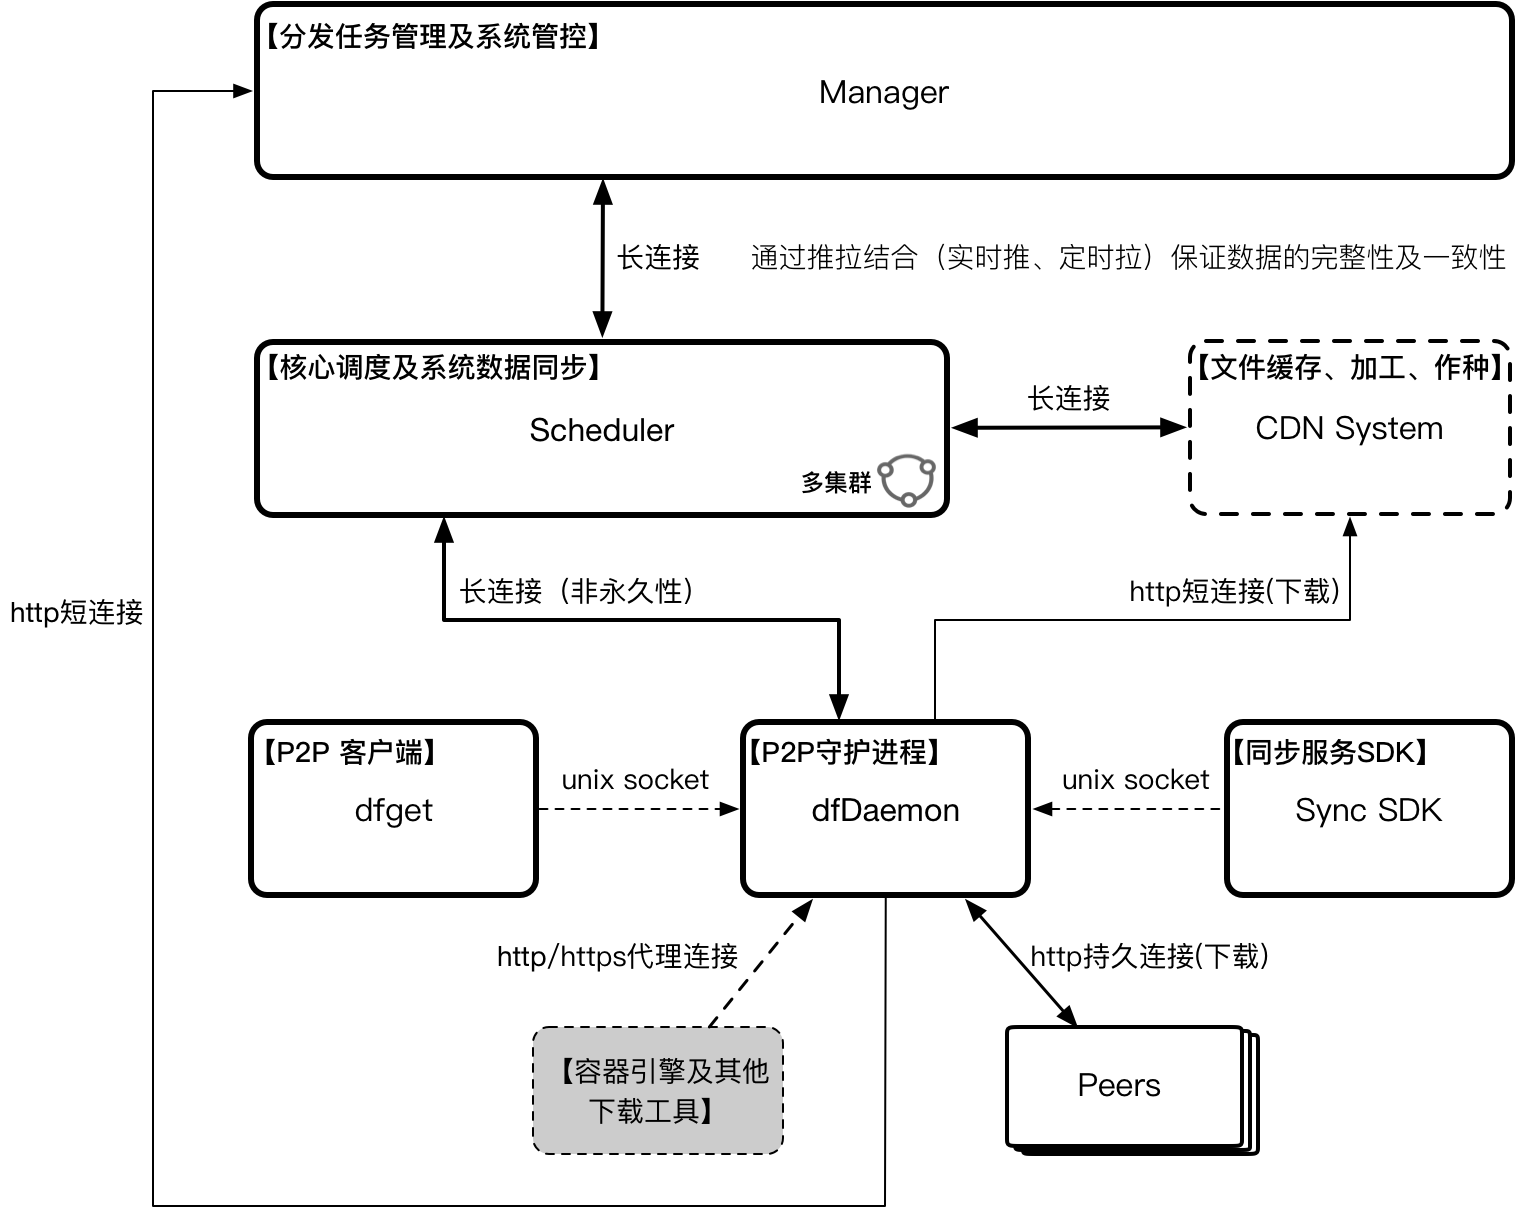
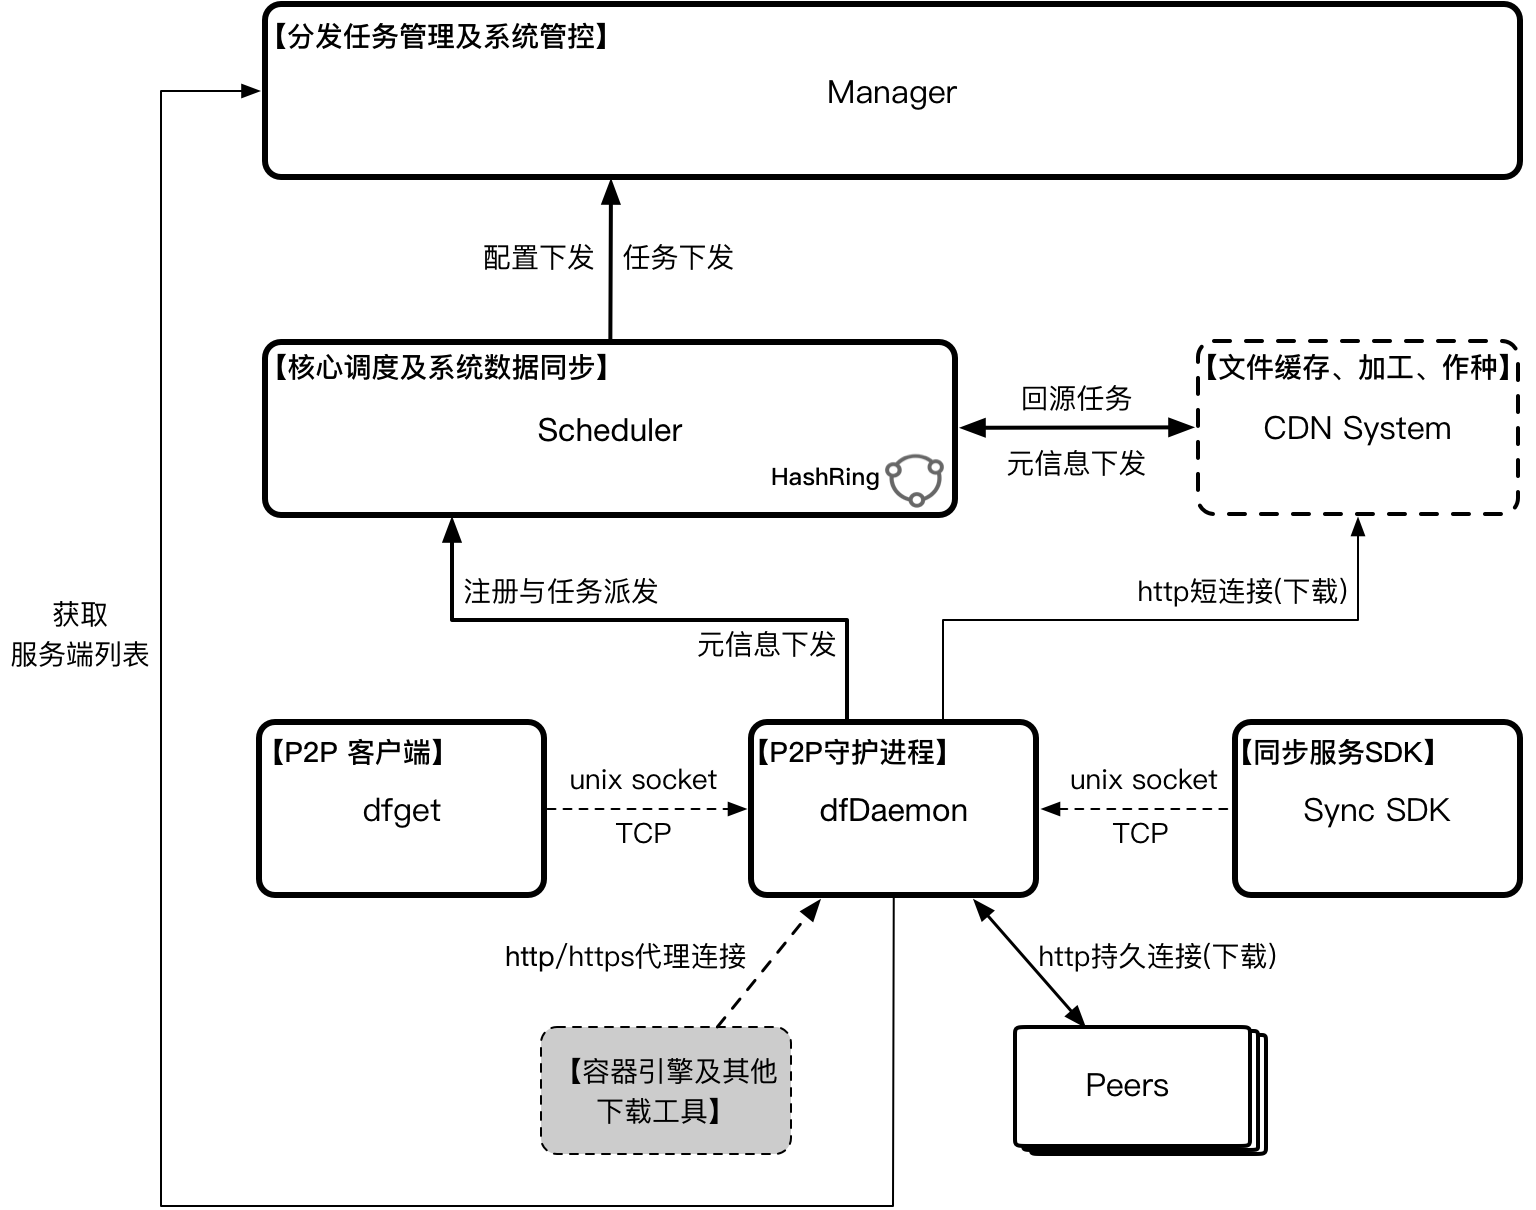
update readme

diff --git a/README.md b/README.md
@@ -1,27 +1,80 @@
 # Dragonfly2
-## 定位
-提供企业级（高效、稳定、安全、低成本、产品化）的文件分发与管理服务，收敛各类文件分发场景，并最终给用户形成一个心智：任何文件传输问题到蜻蜓为止！
-
-## 当前痛点
-1. 当前只能支持HTTP回源协议，针对其他类型的存储（比如HDFS、各云厂商的存储服务、Maven、YUM等等）缺乏支持，因此在非HTTP源的规模化场景下极易导致分发效率问题
-2. 现有架构很难满足日益增长的文件分发规模，稳定性及效率受到越来越多的挑战；同时扩展能力较差（比如不支持原生集成到第三方软件中），部署模式也不够灵活
-3. 缺乏足够的安全保障，包括协议安全、通信及数据传输安全、系统安全等方面
-4. 缺少产品化能力，无法提供完善的文件分发及管理解决方案，比如数据大盘、文件实时同步、客户端管理等等
-5. 内外版本不一致，维护成本高，很多新特性很难相互共享
-## 核心特性
-1. 通过统一适配层支持各种不同类型存储（HDFS、各云厂商的存储服务、Maven、YUM等等）的P2P文件分发能力
-2. 支持更多的分发模式：主动推送、实时同步、远程复制、自动预热、跨云传输等等
-3. 系统之间分离解耦，且支持按需部署，可轻可重，灵活满足不同场景的实际需要
-4. 全新设计P2P通信协议，效率及安全性更佳
-5. 支持加密传输、基于账号的传输鉴权与限流、多租户隔离机制
-6. 客户端与CDN子系统支持多种IO方式：多线程IO、普通读写、DMA等
-7. 服务端支持动态压缩、内存文件系统以及更高效的调度算法，提升分发效率
-8. 客户端通过C/S模式支持第三方软件原生集成蜻蜓的P2P能力
-9. 产品化能力：支持基本的远程文件管理（上传、查询、删除）、各种分发模式的任务管理、数据视图以及全局管控等等功能
-10. 内外一套，核心特性相互共享，非通用特性各自扩展
-
-## 架构大图
-### 产品架构
+## 产品定位
+提供企业级（高效、稳定、安全、低成本、产品化）的文件分发与管理服务，并成为在该领域的云原生最佳实践与标准解决方案
+## 解决的问题
+1. 架构设计缺陷：现有架构很难满足日益增长的文件分发业务需要，在稳定性、效率以及安全性等方面逐渐暴露出不足，并受到越来越多的挑战
+2. 价值渗透不足：当前只能支持HTTP回源协议，针对其他类型的存储（比如HDFS、各云厂商的存储服务、Maven、YUM等等）缺乏适配，从而导致覆盖的场景受到极大制约，进一步阻碍了其在公司和社区的推广以及价值传播
+3. 分发模式单一：目前只支持主动拉取模式，缺少主动推送以及主动同步能力，而这些能力是满足我们产品定位的基本条件
+4. 产品化能力缺失：没有提供完善的控制台功能，比如分发任务管理与管控、数据大盘、多租户以及权限控制等等
+5. 内外版本不一致，维护成本高，新特性及问题修复难以短时间内同步
+## 核心能力
++ 通过统一的回源适配层及实现支持各种不同类型存储（HDFS、各云厂商的存储服务、Maven、YUM等等）的P2P文件分发能力
++ 支持更多的分发模式：主动拉取、主动推送、实时同步、远程复制、自动预热、跨云传输等等
++ 系统之间分离解耦，调度与CDN插件化，且支持按需部署，可轻可重，可内可外，灵活满足不同场景的实际需要
++ 基于grpc全新设计的P2P协议框架，效率及稳定性更佳
++ 支持加密传输、基于账号的传输鉴权与限流、多租户隔离机制
++ 支持更高效的IO方式：多线程IO、内存映射、DMA等
++ 支持动态压缩、内存文件系统以及更高效的调度算法，提升分发效率
++ 客户端通过C/S模式支持第三方软件原生集成蜻蜓的P2P能力
++ 产品化能力：支持文件上传、各种分发模式的任务管理、数据视图以及全局管控等功能
++ 内外一套，核心特性相互共享，非通用特性各自扩展
++ 与生态进一步集成：Harbor、Nydus（镜像按需下载解决方案）、各云厂商仓库服务等
+## 产品架构
 ![](docs/prod-arch.png)
-### 技术架构
+## 技术架构
 ![](docs/tech-arch.png)
+## 各子系统主要逻辑单元
+Manager
+
++ 动态配置管理
++ 数据大盘&带宽计量
++ 文件上传&分发管理与管控
++ 文件同步管理
++ 账号&权限控制
++ 订阅&通知
++ 多租户管理
++ 命令通道服务（通道合一）
+
+Scheduler
+
++ 基于多维度的P2P调度策略
++ 智能化调度算法（高级）
++ 调度结果可量化对比以及支持A/B Testing
++ 调度策略插件化以及CDN子系统插件化
++ 元信息下发管道
++ 客户端下载结果和回源结果统计以及与监控服务的对接
+
+CdnSystem
+
++ 多源适配能力，包括目录下载和Range下载功能
++ DMA读写
++ 回源中转
++ 分发预热
++ 动态压缩
++ 存储管理（种子存放、磁盘清理、块级存储）
++ 内存文件系统
++ 安全传输（对称加密、完整性校验等）
++ 存储介质插件化
+
+Client (dfdaemon、dfget)
+
++ 多源适配能力，包括目录下载和Range下载功能（和CDN一致）
++ 高效IO机制
++ 多下载任务的IO调度（高IO吞吐量）
++ 减少文件读写次数：改进临时文件存放方式、文件完整性校验改进
++ DMA读写（和CDN一致）
++ 流式传输
++ 客户端下载Proxy能力（http、https）
++ 单服务进程启动（CS模式）以及常驻和非常驻模式
++ 失败回源处理
++ 本地缓存能力（客户端seeder模式）
++ 客户端优雅升级与部署方案
++ 命令执行
+
+Framework
+
++ 高可用、高性能、易集成
++ 一致性Hash算法选主
++ 客户端连接管理
+
+
